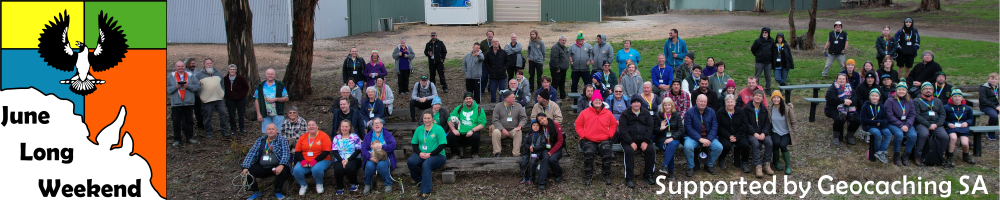
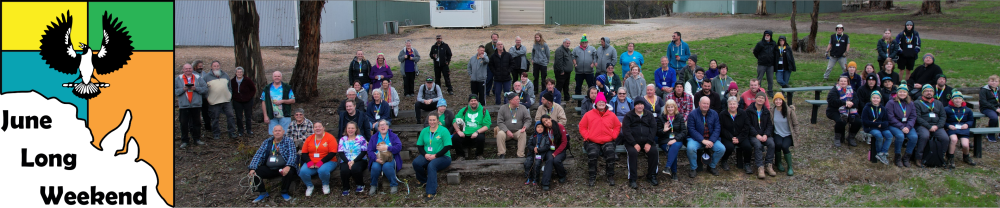
Removed GeocachingSA

diff --git a/html/mobile_template.html b/html/mobile_template.html
@@ -50,7 +50,7 @@ function toggleSubMenu(id) {
                   </div>
             </div>
             <div id="footer">
-                <p style="margin:0;">Geocaching SA 2024</p>
+                <p style="margin:0;">June Long Weekend Geocaching Event Inc | 2024</p>
             </div>
         </div>
     </div>

diff --git a/html/template.html b/html/template.html
@@ -25,7 +25,7 @@
             </div>
         </div>
         <div id="footer">
-            <p>Geocaching SA 2024</p>
+            <p>June Long Weekend Geocaching Event Inc | 2024</p>
         </div>
     </div>
     <script src="/js/ext/lightbox-plus-jquery.js"></script>
